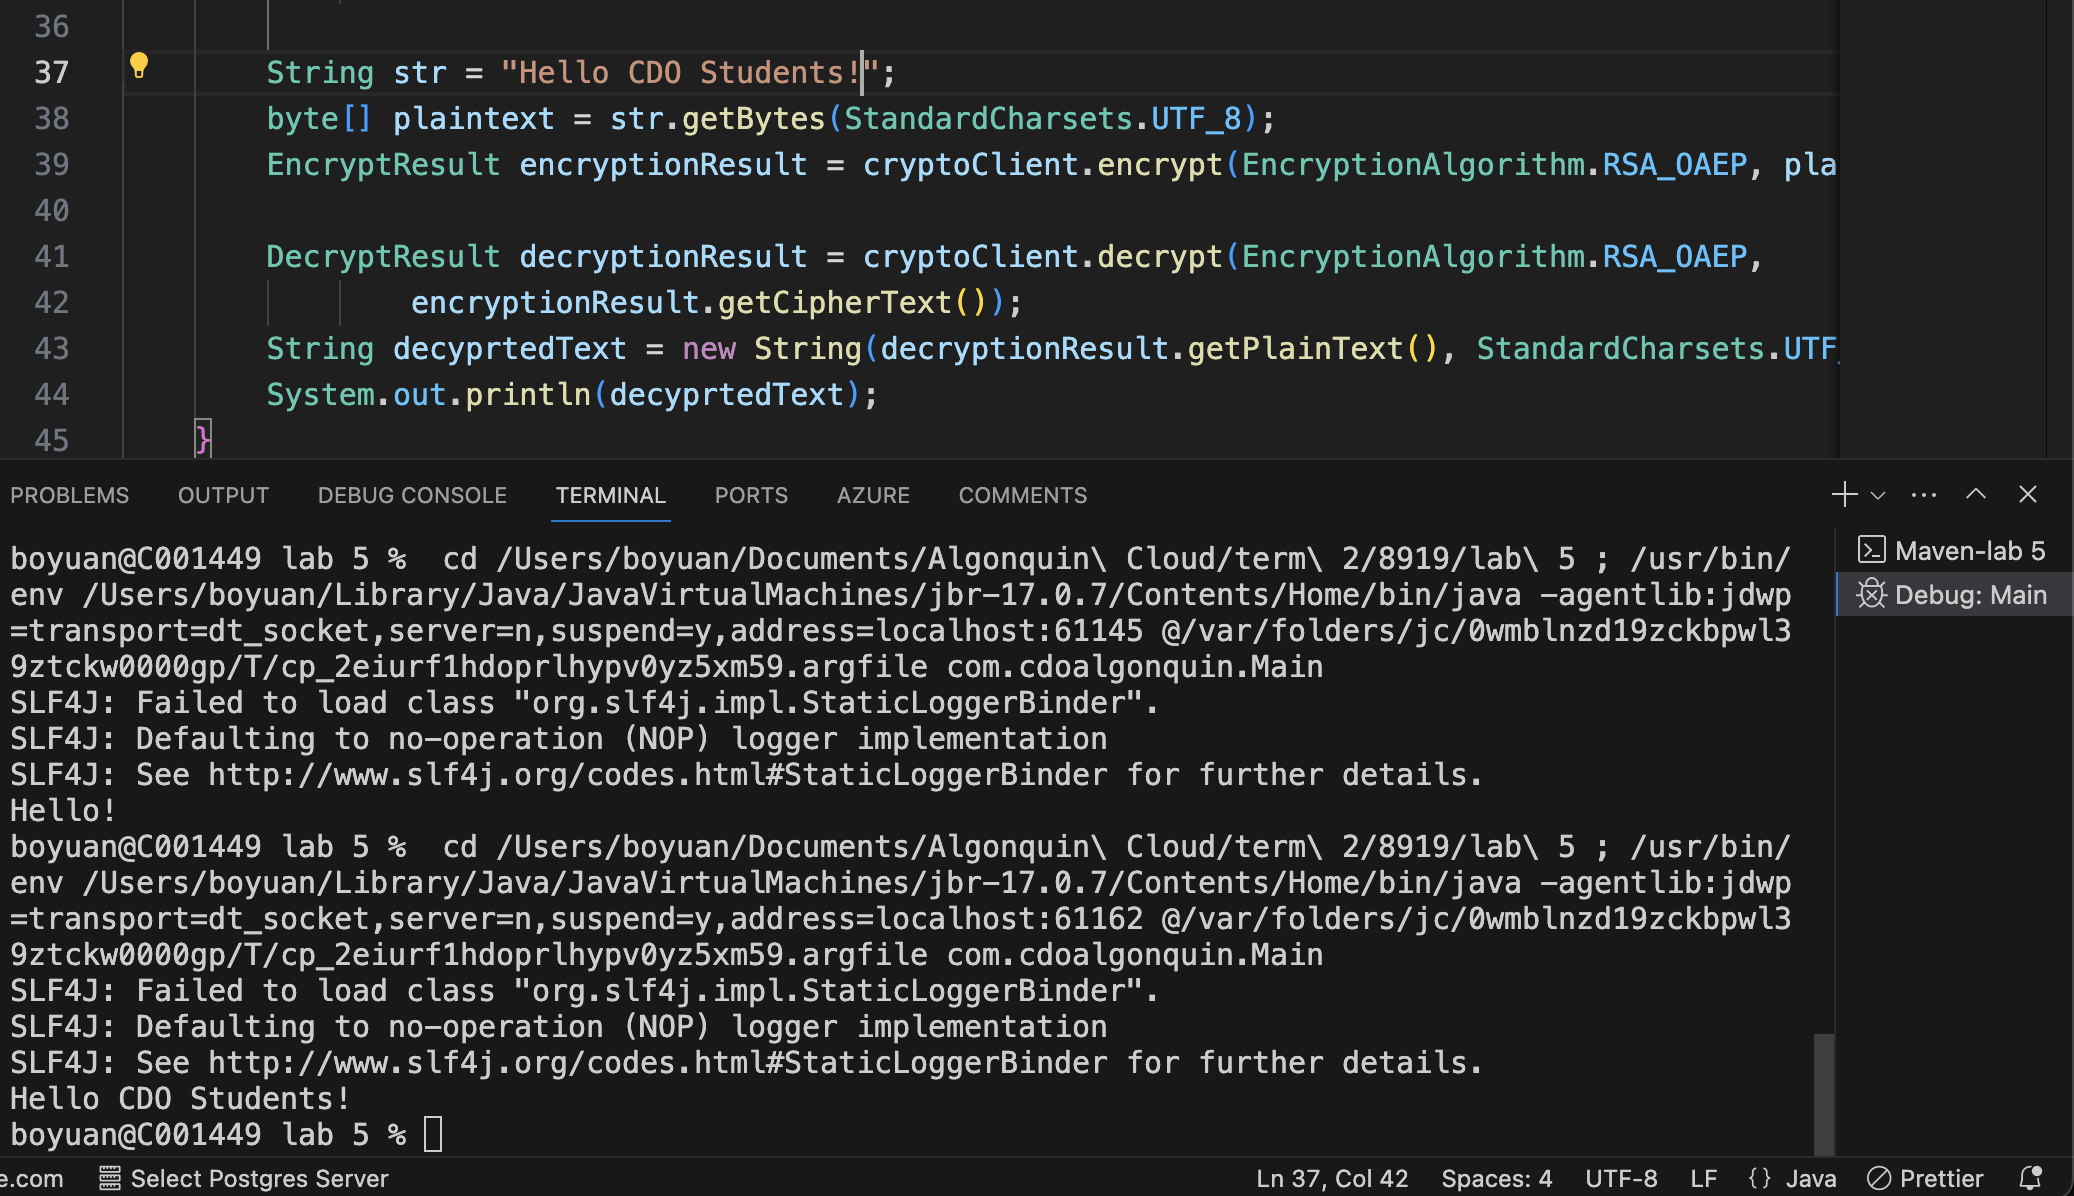
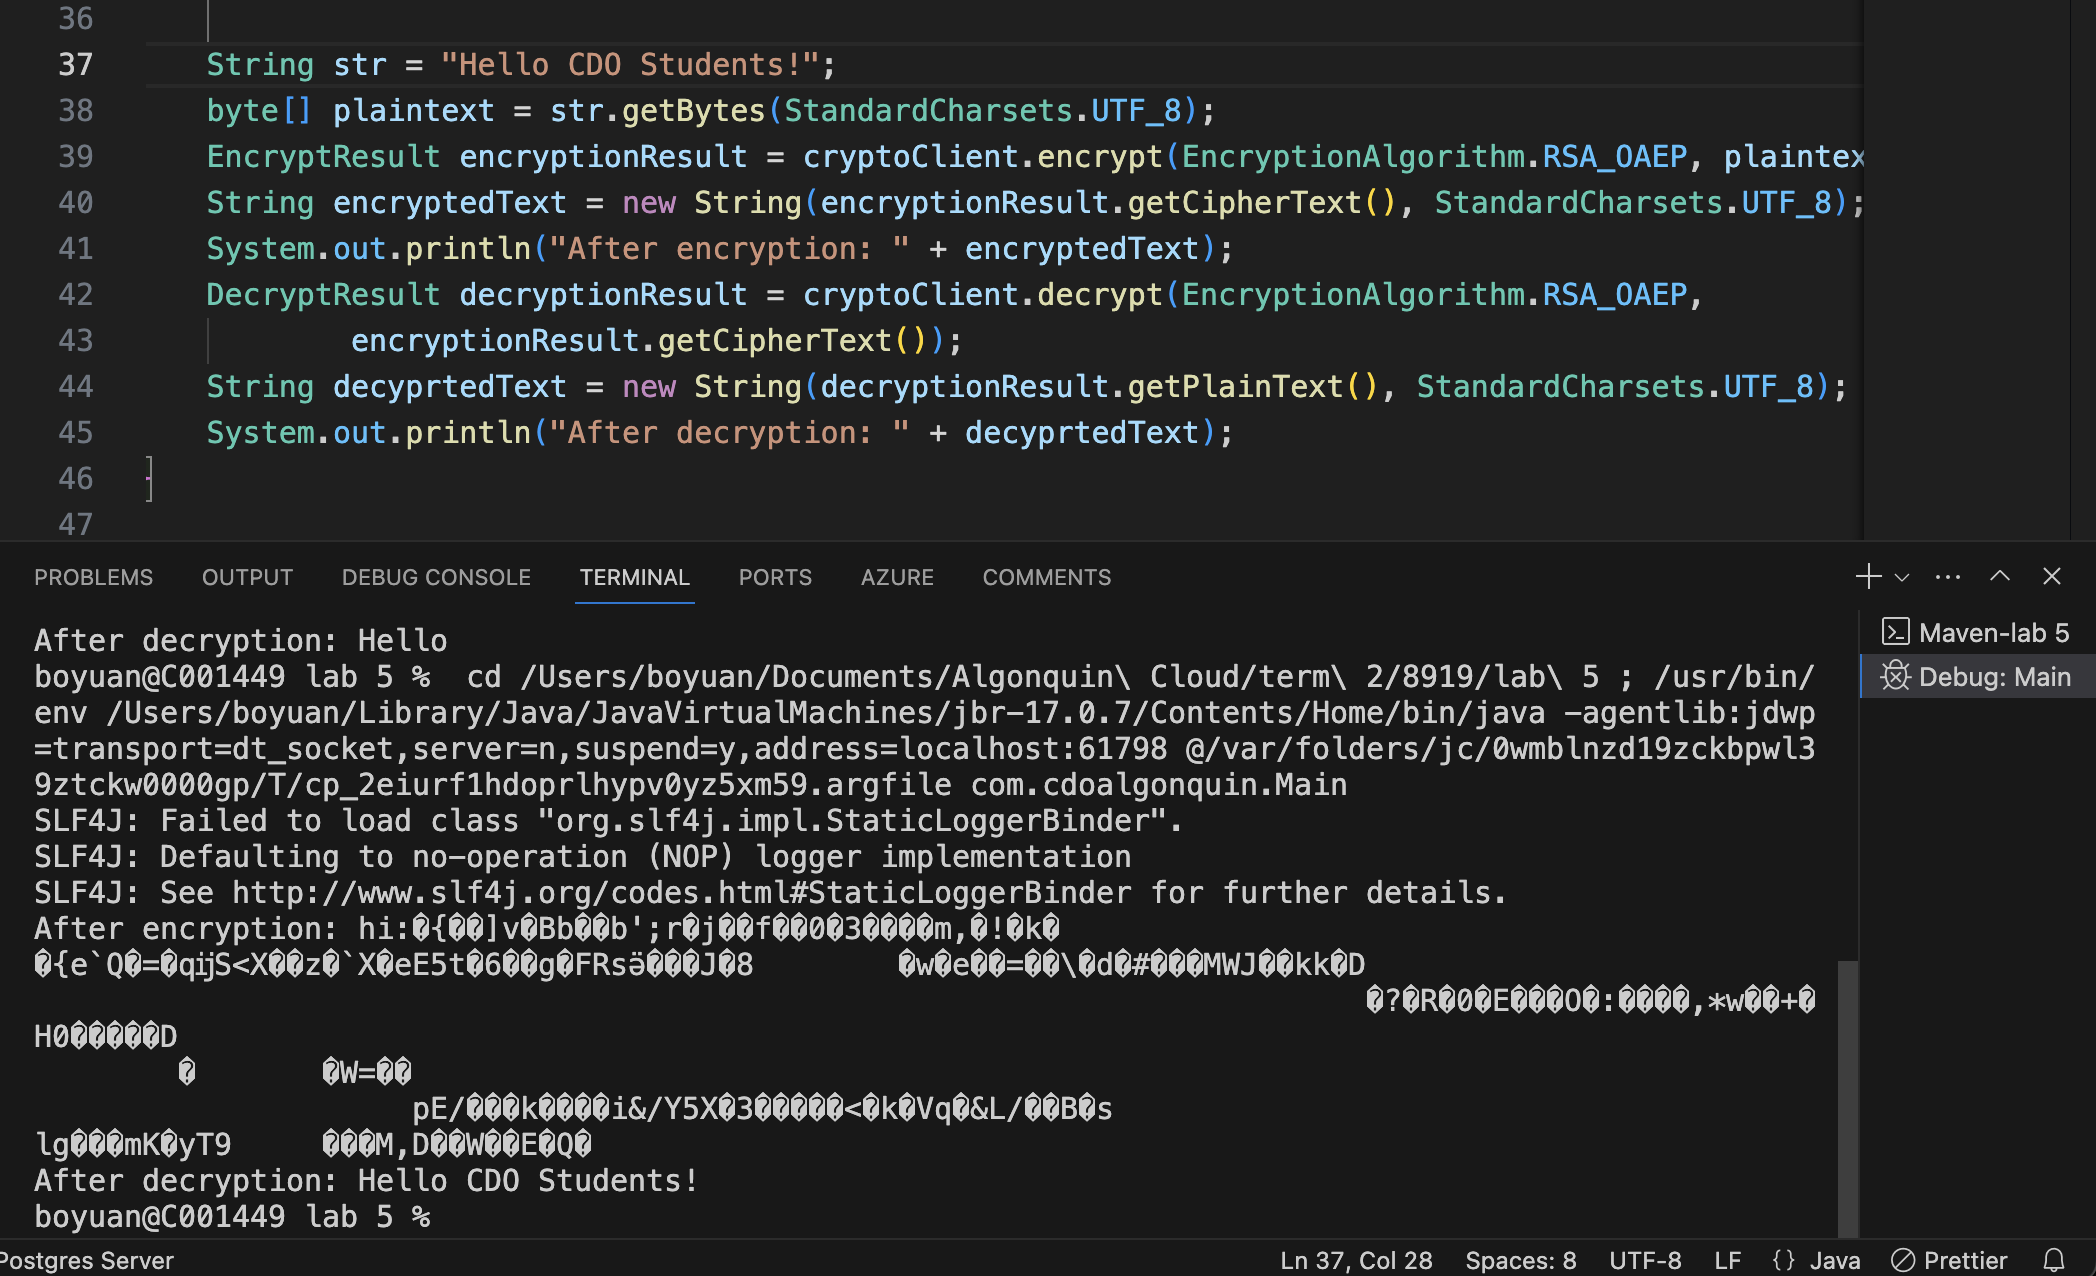
updated

Changed region(s): [[0.0, 0.0, 1.0, 1.0]]

diff --git a/readme.md b/readme.md
@@ -98,10 +98,12 @@ The premium pricing tier was selected because it provides more symmetric key alg
         String str = "Hello!";
             byte[] plaintext = str.getBytes(StandardCharsets.UTF_8);
         EncryptResult encryptionResult = cryptoClient.encrypt(EncryptionAlgorithm.RSA_OAEP, plaintext);
+        String encryptedText = new String(encryptionResult.getCipherText(), StandardCharsets.UTF_8);
+        System.out.println("After encryption: " + encryptedText);        
 ```
 * 2.10 Decrypt the encrypted string
 ```
-    DecryptResult decryptionResult = cryptoClient.decrypt(EncryptionAlgorithm.RSA_OAEP,
+        DecryptResult decryptionResult = cryptoClient.decrypt(EncryptionAlgorithm.RSA_OAEP,
                 encryptionResult.getCipherText());
         String decyprtedText = new String(decryptionResult.getPlainText(), StandardCharsets.UTF_8);
         System.out.println(decyprtedText);
